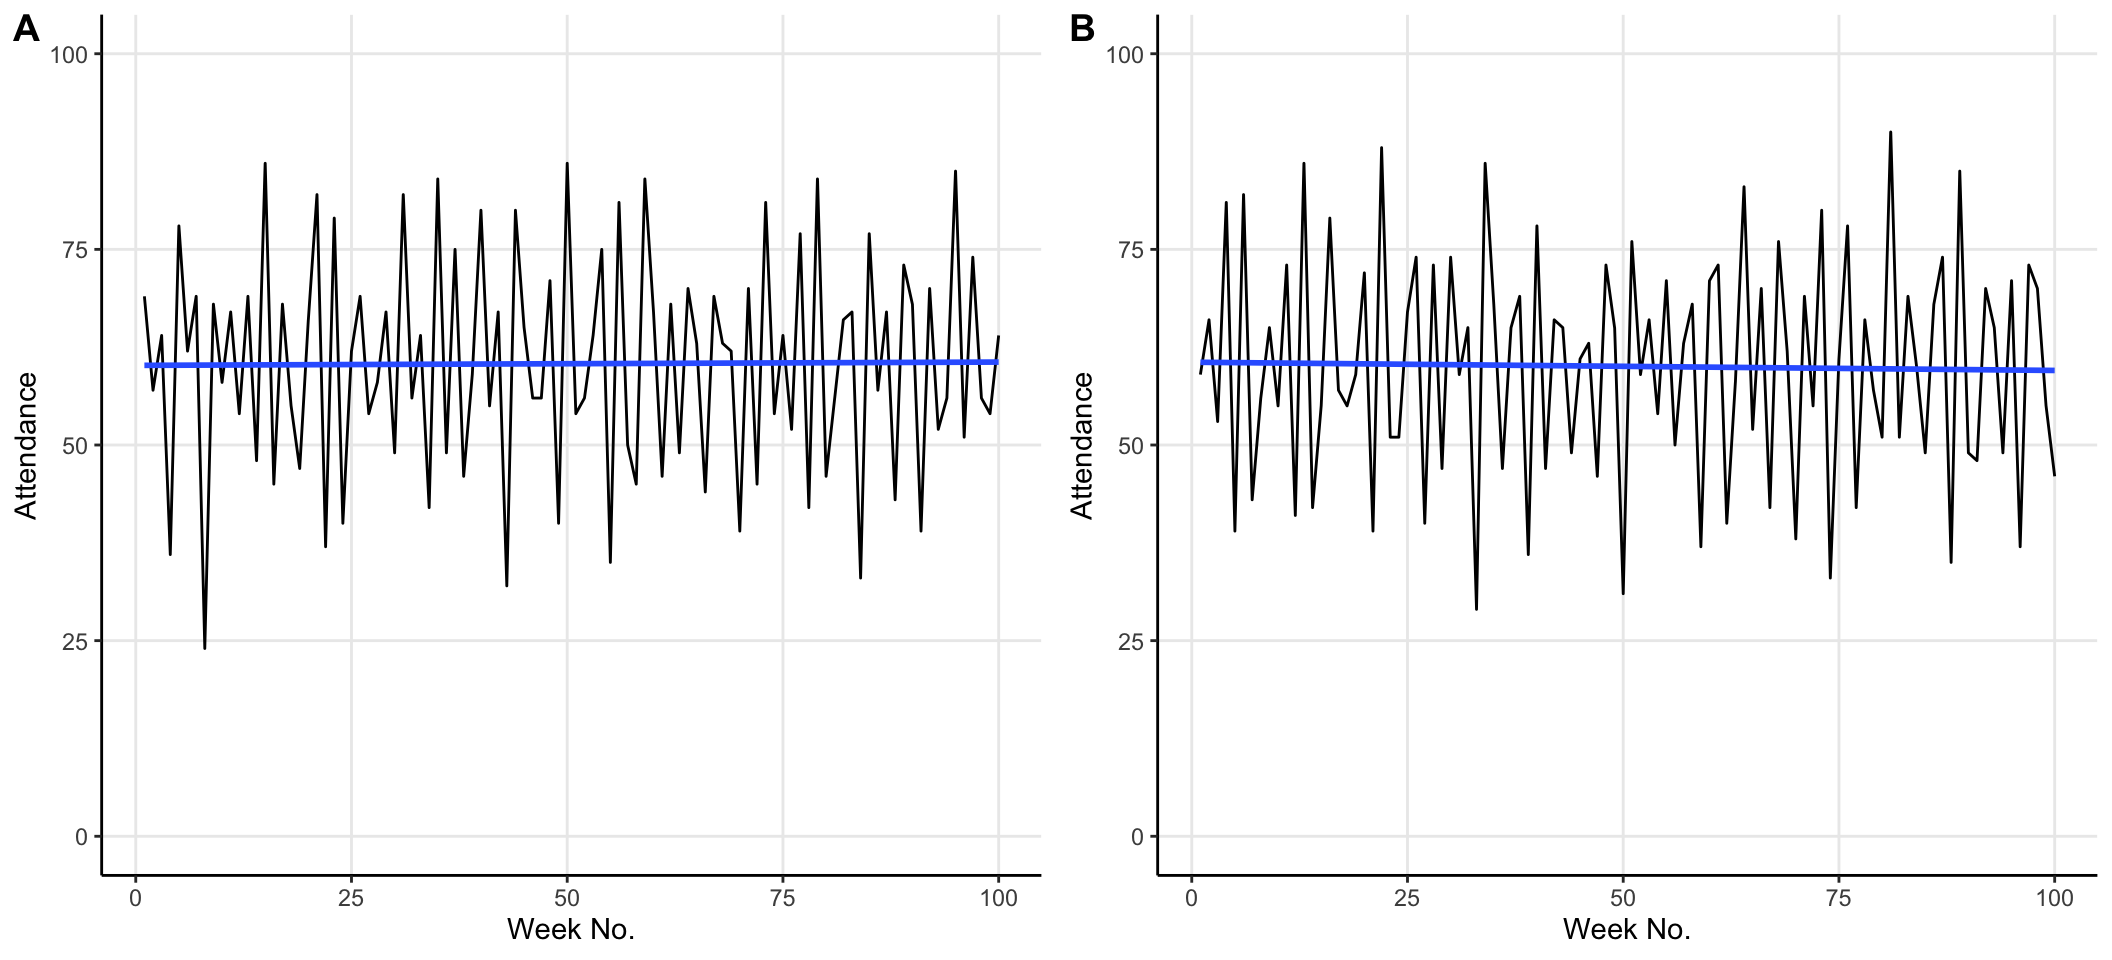
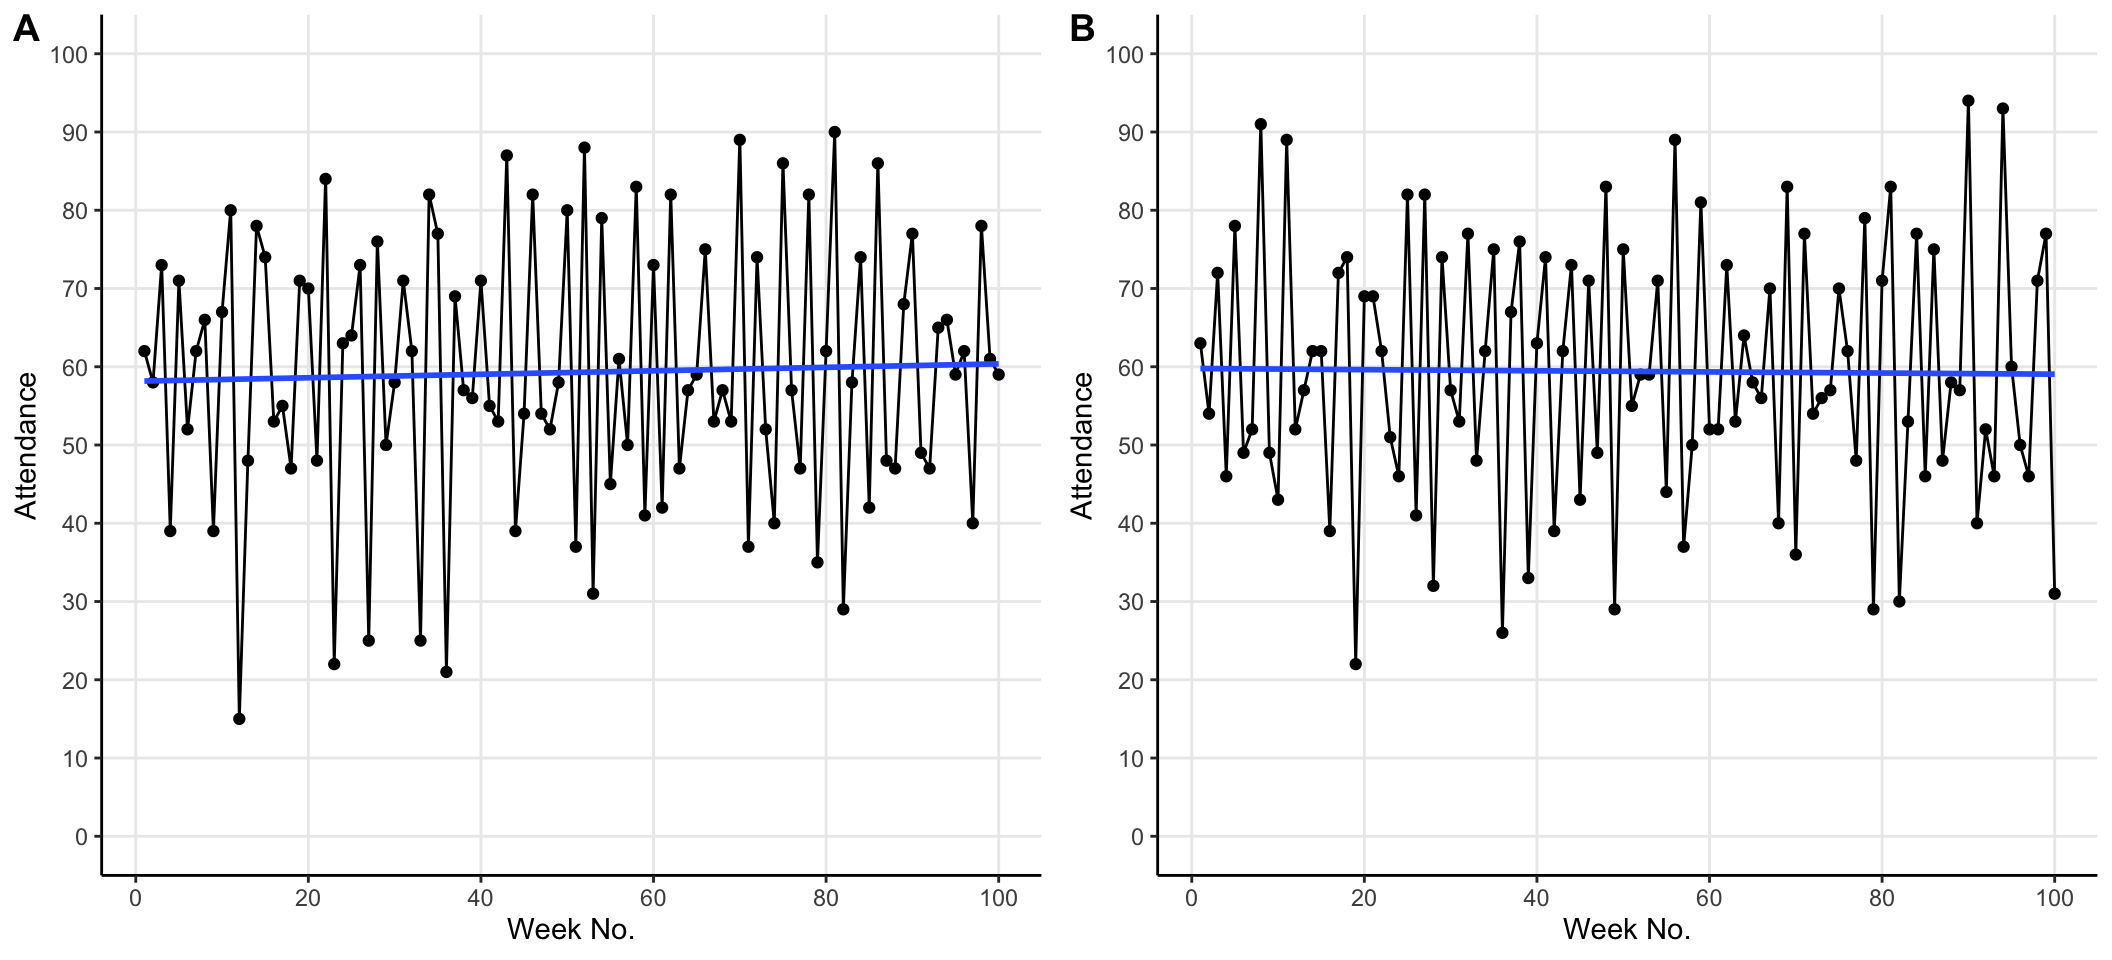
fixed function

diff --git a/public/posts/el_farol_bar_problem/index.html b/public/posts/el_farol_bar_problem/index.html
@@ -110,7 +110,7 @@
             </span>
             <span class="reading-time">
               <i class="fas fa-clock"></i>
-              4 minutes read
+              6 minutes read
             </span>
           </div>
           
@@ -137,7 +137,7 @@
 </ul></li>
 <li><a href="#simulations"><span class="toc-section-number">3</span> Simulations</a><ul>
 <li><a href="#first-glance"><span class="toc-section-number">3.1</span> First glance</a></li>
-<li><a href="#default-options"><span class="toc-section-number">3.2</span> Default options</a></li>
+<li><a href="#comparing-simulations"><span class="toc-section-number">3.2</span> Comparing simulations</a></li>
 <li><a href="#changing-the-threshold"><span class="toc-section-number">3.3</span> Changing the threshold</a></li>
 <li><a href="#changing-the-timespan"><span class="toc-section-number">3.4</span> Changing the timespan</a></li>
 <li><a href="#results"><span class="toc-section-number">3.5</span> Results</a></li>
@@ -157,8 +157,8 @@ div#TOC li {
 <p>I’m currently making my way through <em>Complexity and the Economy</em> by W. Brian Arthur. The book’s second chapter is a paper from 1994 called <a href="http://tuvalu.santafe.edu/~wbarthur/Papers/El_Farol.pdf"><em>Inductive Reasoning and Bounded Rationality: The El Farol Problem</em></a>. It’s a fantastic example of how marrying psychological insights and a computational (rather than analytic) approach can produce novel, interesting, and intuive research in economics. So, I thought I’d have a go at using R to reproduce my own (simpler) version of the model described in the paper.</p>
 <div id="background" class="section level1">
 <h1><span class="header-section-number">1</span> Background</h1>
-<p>When Arthur was working at the Santa Fe Institute in 1993, there was a bar called El Farol where there was Irish music on thursday nights. He noted that people would go if they expected few people to be there, but avoided it if they expected it to be too busy. This problem is interesting because it creates something of a paradox where beliefs lead to outcomes that cause those beliefs to be proved false. If people expect many others to attend, then few will show up and the bar will be empty. If people expect nobody to attend, then everyone will show up and it’ll be packed. In both cases the original belief causes behaviour that means the belief ends up being incorrect.</p>
-<p>Let’s generalise this phenomenon in a toy model similar to Arthur’s and see if we can gain any insight into the dynamics of attendance over time.</p>
+<p>When Arthur was working at the Santa Fe Institute in 1993, there was a bar called El Farol where there was Irish music on thursday nights. He noted that people would go if they expected few people to be there, but avoided it if they expected it to be too busy. This is interesting because it creates something of a paradox where beliefs lead to outcomes that cause those beliefs to be proved false. If most people expect many others to attend, then few will show up and the bar will be empty. If most people expect nobody to attend, then everyone will show up and it’ll be packed. In both cases the original belief causes behaviour that means the belief ends up being incorrect.</p>
+<p>If we generalise this phenomenon in a toy model similar to Arthur’s we can gain some insight into the dynamics of attendance over time.</p>
 </div>
 <div id="model" class="section level1">
 <h1><span class="header-section-number">2</span> Model</h1>
@@ -168,50 +168,57 @@ div#TOC li {
 <p>There’s no collusion or prior communication between possible attendees and the choice isn’t affected by whether the person was right or wrong in their beliefs about previous visits. The only info available is a list of the number of people who came in the past weeks.</p>
 <p>For example, the past 10 weeks’ attendance might be:</p>
 <pre><code>##  [1] 54 41 68 86 70 72 44 70 51 82</code></pre>
-<p>Each of the 100 people can individually form <span class="math inline">\(k\)</span> hypotheses they could use to predict the next week’s attendance based on the figures for the past <span class="math inline">\(d\)</span> weeks. For example, their hypotheses could include:</p>
+<p>Each of the 100 people can individually form different hypotheses they could use to predict the next week’s attendance based on the figures for the past weeks. For example, their hypotheses could include:</p>
 <ul>
 <li>Predict the same as last week <span class="math inline">\(\rightarrow\)</span> 82 people</li>
 <li>Predict a mirror image around 50 of last week <span class="math inline">\(\rightarrow\)</span> 18 people</li>
 <li>Predict the average of the past four weeks <span class="math inline">\(\rightarrow\)</span> 62 people</li>
 </ul>
-<p>Each person decides to go out or stay in according to the currently most accurate prediction hypothesis in their individual set. If their best predictor says that fewer than <span class="math inline">\(X\)</span> people will go, then they go. If their best predictor says that more than <span class="math inline">\(X\)</span> people go, then they don’t.</p>
+<p>Each person decides to go out or stay in according to the currently most accurate hypothesis in their individual set. If their best predictor says that fewer than <span class="math inline">\(X\)</span> people will go, then they go. If their best predictor says that more than <span class="math inline">\(X\)</span> people go, then they don’t.</p>
 </div>
 <div id="r-function" class="section level2">
 <h2><span class="header-section-number">2.2</span> R function</h2>
 <p>For brevity I’ve hidden the code where I create the <code>sim_el_farol()</code> function but you can find it <a href="https://github.com/mitchelfruin/MitchThinks/blob/master/content/posts/el_farol_bar_problem.Rmd">here</a>.</p>
-<p>All that’s crucial to know is that it takes two arguments.</p>
+<p>What’s important to know is that the function takes two arguments:</p>
 <ul>
-<li><code>threshold =</code> specifies the crucial cut-off at which people believe the bar is or isn’t too busy.</li>
-<li><code>n_rounds =</code> specifies the number of weeks to run the simulation for.</li>
+<li><code>threshold =</code> specifies the crucial cut-off at which people believe the bar is or isn’t too busy. By default this value is 60.</li>
+<li><code>n_rounds =</code> specifies the number of weeks to run the simulation for. By default this value is 100.</li>
 </ul>
-<p>The function outputs a dataframe with weekly attendance figures.</p>
+<p>When you run the function it randomly allocates 3 hypotheses like the ones previously described to each of the 100 people. For the first week (when there are no past attendance figures to work with) all of these hypotheses make random predictions for how many people will attend and each person uses a random hypothesis as their ‘best’ prediction. Those who (based on this random ‘best’ prediction) believe fewer than the <code>threshold</code> value will attend go to the bar. Those who believe more than the <code>threshold</code> value will attend stay home.</p>
+<p>Now we have a figure for the first week’s attendance the accuracy of each of the 300 hypotheses (remember there are 3 for each person) is calculated as the difference between its predicted attendance and the true figure. Each person then uses their most accurate hypothesis so far to make a prediction for the next week’s attendance and the cycle repeats for <code>n_rounds</code>.</p>
+<p>The function outputs a list of two dataframes. One contains the weekly attendance figures and the other contains each of the 100 individuals’ predictions for each round.</p>
 </div>
 </div>
 <div id="simulations" class="section level1">
 <h1><span class="header-section-number">3</span> Simulations</h1>
 <div id="first-glance" class="section level2">
 <h2><span class="header-section-number">3.1</span> First glance</h2>
-<p>Talk about average behaviour.</p>
+<p>OK, let’s see what the simulation spits out with its default settings.</p>
+<pre class="r"><code>set.seed(23)
+default &lt;- sim_el_farol()</code></pre>
+<p><img src="/posts/el_farol_bar_problem_files/figure-html/default%20viz-1.png" width="1056" style="display: block; margin: auto;" /> The blue line in the graph is a linear model of attendance over time. It shows us that whilst weekly attendance fluctuates the mean attendance converges on the default threshold value of 60.</p>
 </div>
-<div id="default-options" class="section level2">
-<h2><span class="header-section-number">3.2</span> Default options</h2>
-<p>Re-running with same parameters changes the fluctuation but not the mean.</p>
-<p>E.g. Run two simulations A and B</p>
+<div id="comparing-simulations" class="section level2">
+<h2><span class="header-section-number">3.2</span> Comparing simulations</h2>
+<p>What if we compare two default simulations? How consistent is this apparent convergence on the threshold value?</p>
 <pre class="r"><code># Sim A
 default_A &lt;- sim_el_farol()
 
 # Sim B
 default_B &lt;- sim_el_farol()</code></pre>
 <p><img src="/posts/el_farol_bar_problem_files/figure-html/unnamed-chunk-1-1.png" width="1056" style="display: block; margin: auto;" /></p>
+<p>Re-running with same default parameters changes the fluctuation but average attendance still converges on the threshold value. The different fluctuations are due to the initial random allocation of hypotheses amongst individuals. But we see that no matter how these fluctuations differ the same average behaviour emerges.</p>
 </div>
 <div id="changing-the-threshold" class="section level2">
 <h2><span class="header-section-number">3.3</span> Changing the threshold</h2>
+<p>So, from our simulations so far, it seems like the average attendance converges on the threshold value. Let’s test this by altering the threshold value to 40.</p>
 <pre class="r"><code># Sim A
 forty_A &lt;- sim_el_farol(threshold = 40)
 
 # Sim B
 forty_B &lt;- sim_el_farol(threshold = 40)</code></pre>
 <p><img src="/posts/el_farol_bar_problem_files/figure-html/unnamed-chunk-2-1.png" width="1056" style="display: block; margin: auto;" /></p>
+<p>The same behaviour persists but now at the new threshold value.</p>
 </div>
 <div id="changing-the-timespan" class="section level2">
 <h2><span class="header-section-number">3.4</span> Changing the timespan</h2>
@@ -221,6 +228,7 @@ forty_B &lt;- sim_el_farol(threshold = 40)</code></pre>
 <h2><span class="header-section-number">3.5</span> Results</h2>
 <p>Mention ecology?</p>
 <p>It’s different people each time.</p>
+<p><img src="/posts/el_farol_bar_problem_files/figure-html/ecology-1.png" width="1056" style="display: block; margin: auto;" /></p>
 </div>
 </div>
 <div id="why-should-you-care" class="section level1">

diff --git a/content/posts/el_farol_bar_problem.html b/content/posts/el_farol_bar_problem.html
@@ -22,7 +22,7 @@ output:
 </ul></li>
 <li><a href="#simulations"><span class="toc-section-number">3</span> Simulations</a><ul>
 <li><a href="#first-glance"><span class="toc-section-number">3.1</span> First glance</a></li>
-<li><a href="#default-options"><span class="toc-section-number">3.2</span> Default options</a></li>
+<li><a href="#comparing-simulations"><span class="toc-section-number">3.2</span> Comparing simulations</a></li>
 <li><a href="#changing-the-threshold"><span class="toc-section-number">3.3</span> Changing the threshold</a></li>
 <li><a href="#changing-the-timespan"><span class="toc-section-number">3.4</span> Changing the timespan</a></li>
 <li><a href="#results"><span class="toc-section-number">3.5</span> Results</a></li>
@@ -42,8 +42,8 @@ div#TOC li {
 <p>I’m currently making my way through <em>Complexity and the Economy</em> by W. Brian Arthur. The book’s second chapter is a paper from 1994 called <a href="http://tuvalu.santafe.edu/~wbarthur/Papers/El_Farol.pdf"><em>Inductive Reasoning and Bounded Rationality: The El Farol Problem</em></a>. It’s a fantastic example of how marrying psychological insights and a computational (rather than analytic) approach can produce novel, interesting, and intuive research in economics. So, I thought I’d have a go at using R to reproduce my own (simpler) version of the model described in the paper.</p>
 <div id="background" class="section level1">
 <h1><span class="header-section-number">1</span> Background</h1>
-<p>When Arthur was working at the Santa Fe Institute in 1993, there was a bar called El Farol where there was Irish music on thursday nights. He noted that people would go if they expected few people to be there, but avoided it if they expected it to be too busy. This problem is interesting because it creates something of a paradox where beliefs lead to outcomes that cause those beliefs to be proved false. If people expect many others to attend, then few will show up and the bar will be empty. If people expect nobody to attend, then everyone will show up and it’ll be packed. In both cases the original belief causes behaviour that means the belief ends up being incorrect.</p>
-<p>Let’s generalise this phenomenon in a toy model similar to Arthur’s and see if we can gain any insight into the dynamics of attendance over time.</p>
+<p>When Arthur was working at the Santa Fe Institute in 1993, there was a bar called El Farol where there was Irish music on thursday nights. He noted that people would go if they expected few people to be there, but avoided it if they expected it to be too busy. This is interesting because it creates something of a paradox where beliefs lead to outcomes that cause those beliefs to be proved false. If most people expect many others to attend, then few will show up and the bar will be empty. If most people expect nobody to attend, then everyone will show up and it’ll be packed. In both cases the original belief causes behaviour that means the belief ends up being incorrect.</p>
+<p>If we generalise this phenomenon in a toy model similar to Arthur’s we can gain some insight into the dynamics of attendance over time.</p>
 </div>
 <div id="model" class="section level1">
 <h1><span class="header-section-number">2</span> Model</h1>
@@ -53,50 +53,57 @@ div#TOC li {
 <p>There’s no collusion or prior communication between possible attendees and the choice isn’t affected by whether the person was right or wrong in their beliefs about previous visits. The only info available is a list of the number of people who came in the past weeks.</p>
 <p>For example, the past 10 weeks’ attendance might be:</p>
 <pre><code>##  [1] 54 41 68 86 70 72 44 70 51 82</code></pre>
-<p>Each of the 100 people can individually form <span class="math inline">\(k\)</span> hypotheses they could use to predict the next week’s attendance based on the figures for the past <span class="math inline">\(d\)</span> weeks. For example, their hypotheses could include:</p>
+<p>Each of the 100 people can individually form different hypotheses they could use to predict the next week’s attendance based on the figures for the past weeks. For example, their hypotheses could include:</p>
 <ul>
 <li>Predict the same as last week <span class="math inline">\(\rightarrow\)</span> 82 people</li>
 <li>Predict a mirror image around 50 of last week <span class="math inline">\(\rightarrow\)</span> 18 people</li>
 <li>Predict the average of the past four weeks <span class="math inline">\(\rightarrow\)</span> 62 people</li>
 </ul>
-<p>Each person decides to go out or stay in according to the currently most accurate prediction hypothesis in their individual set. If their best predictor says that fewer than <span class="math inline">\(X\)</span> people will go, then they go. If their best predictor says that more than <span class="math inline">\(X\)</span> people go, then they don’t.</p>
+<p>Each person decides to go out or stay in according to the currently most accurate hypothesis in their individual set. If their best predictor says that fewer than <span class="math inline">\(X\)</span> people will go, then they go. If their best predictor says that more than <span class="math inline">\(X\)</span> people go, then they don’t.</p>
 </div>
 <div id="r-function" class="section level2">
 <h2><span class="header-section-number">2.2</span> R function</h2>
 <p>For brevity I’ve hidden the code where I create the <code>sim_el_farol()</code> function but you can find it <a href="https://github.com/mitchelfruin/MitchThinks/blob/master/content/posts/el_farol_bar_problem.Rmd">here</a>.</p>
-<p>All that’s crucial to know is that it takes two arguments.</p>
+<p>What’s important to know is that the function takes two arguments:</p>
 <ul>
-<li><code>threshold =</code> specifies the crucial cut-off at which people believe the bar is or isn’t too busy.</li>
-<li><code>n_rounds =</code> specifies the number of weeks to run the simulation for.</li>
+<li><code>threshold =</code> specifies the crucial cut-off at which people believe the bar is or isn’t too busy. By default this value is 60.</li>
+<li><code>n_rounds =</code> specifies the number of weeks to run the simulation for. By default this value is 100.</li>
 </ul>
-<p>The function outputs a dataframe with weekly attendance figures.</p>
+<p>When you run the function it randomly allocates 3 hypotheses like the ones previously described to each of the 100 people. For the first week (when there are no past attendance figures to work with) all of these hypotheses make random predictions for how many people will attend and each person uses a random hypothesis as their ‘best’ prediction. Those who (based on this random ‘best’ prediction) believe fewer than the <code>threshold</code> value will attend go to the bar. Those who believe more than the <code>threshold</code> value will attend stay home.</p>
+<p>Now we have a figure for the first week’s attendance the accuracy of each of the 300 hypotheses (remember there are 3 for each person) is calculated as the difference between its predicted attendance and the true figure. Each person then uses their most accurate hypothesis so far to make a prediction for the next week’s attendance and the cycle repeats for <code>n_rounds</code>.</p>
+<p>The function outputs a list of two dataframes. One contains the weekly attendance figures and the other contains each of the 100 individuals’ predictions for each round.</p>
 </div>
 </div>
 <div id="simulations" class="section level1">
 <h1><span class="header-section-number">3</span> Simulations</h1>
 <div id="first-glance" class="section level2">
 <h2><span class="header-section-number">3.1</span> First glance</h2>
-<p>Talk about average behaviour.</p>
+<p>OK, let’s see what the simulation spits out with its default settings.</p>
+<pre class="r"><code>set.seed(23)
+default &lt;- sim_el_farol()</code></pre>
+<p><img src="/posts/el_farol_bar_problem_files/figure-html/default%20viz-1.png" width="1056" style="display: block; margin: auto;" /> The blue line in the graph is a linear model of attendance over time. It shows us that whilst weekly attendance fluctuates the mean attendance converges on the default threshold value of 60.</p>
 </div>
-<div id="default-options" class="section level2">
-<h2><span class="header-section-number">3.2</span> Default options</h2>
-<p>Re-running with same parameters changes the fluctuation but not the mean.</p>
-<p>E.g. Run two simulations A and B</p>
+<div id="comparing-simulations" class="section level2">
+<h2><span class="header-section-number">3.2</span> Comparing simulations</h2>
+<p>What if we compare two default simulations? How consistent is this apparent convergence on the threshold value?</p>
 <pre class="r"><code># Sim A
 default_A &lt;- sim_el_farol()
 
 # Sim B
 default_B &lt;- sim_el_farol()</code></pre>
 <p><img src="/posts/el_farol_bar_problem_files/figure-html/unnamed-chunk-1-1.png" width="1056" style="display: block; margin: auto;" /></p>
+<p>Re-running with same default parameters changes the fluctuation but average attendance still converges on the threshold value. The different fluctuations are due to the initial random allocation of hypotheses amongst individuals. But we see that no matter how these fluctuations differ the same average behaviour emerges.</p>
 </div>
 <div id="changing-the-threshold" class="section level2">
 <h2><span class="header-section-number">3.3</span> Changing the threshold</h2>
+<p>So, from our simulations so far, it seems like the average attendance converges on the threshold value. Let’s test this by altering the threshold value to 40.</p>
 <pre class="r"><code># Sim A
 forty_A &lt;- sim_el_farol(threshold = 40)
 
 # Sim B
 forty_B &lt;- sim_el_farol(threshold = 40)</code></pre>
 <p><img src="/posts/el_farol_bar_problem_files/figure-html/unnamed-chunk-2-1.png" width="1056" style="display: block; margin: auto;" /></p>
+<p>The same behaviour persists but now at the new threshold value.</p>
 </div>
 <div id="changing-the-timespan" class="section level2">
 <h2><span class="header-section-number">3.4</span> Changing the timespan</h2>
@@ -106,6 +113,7 @@ forty_B &lt;- sim_el_farol(threshold = 40)</code></pre>
 <h2><span class="header-section-number">3.5</span> Results</h2>
 <p>Mention ecology?</p>
 <p>It’s different people each time.</p>
+<p><img src="/posts/el_farol_bar_problem_files/figure-html/ecology-1.png" width="1056" style="display: block; margin: auto;" /></p>
 </div>
 </div>
 <div id="why-should-you-care" class="section level1">
